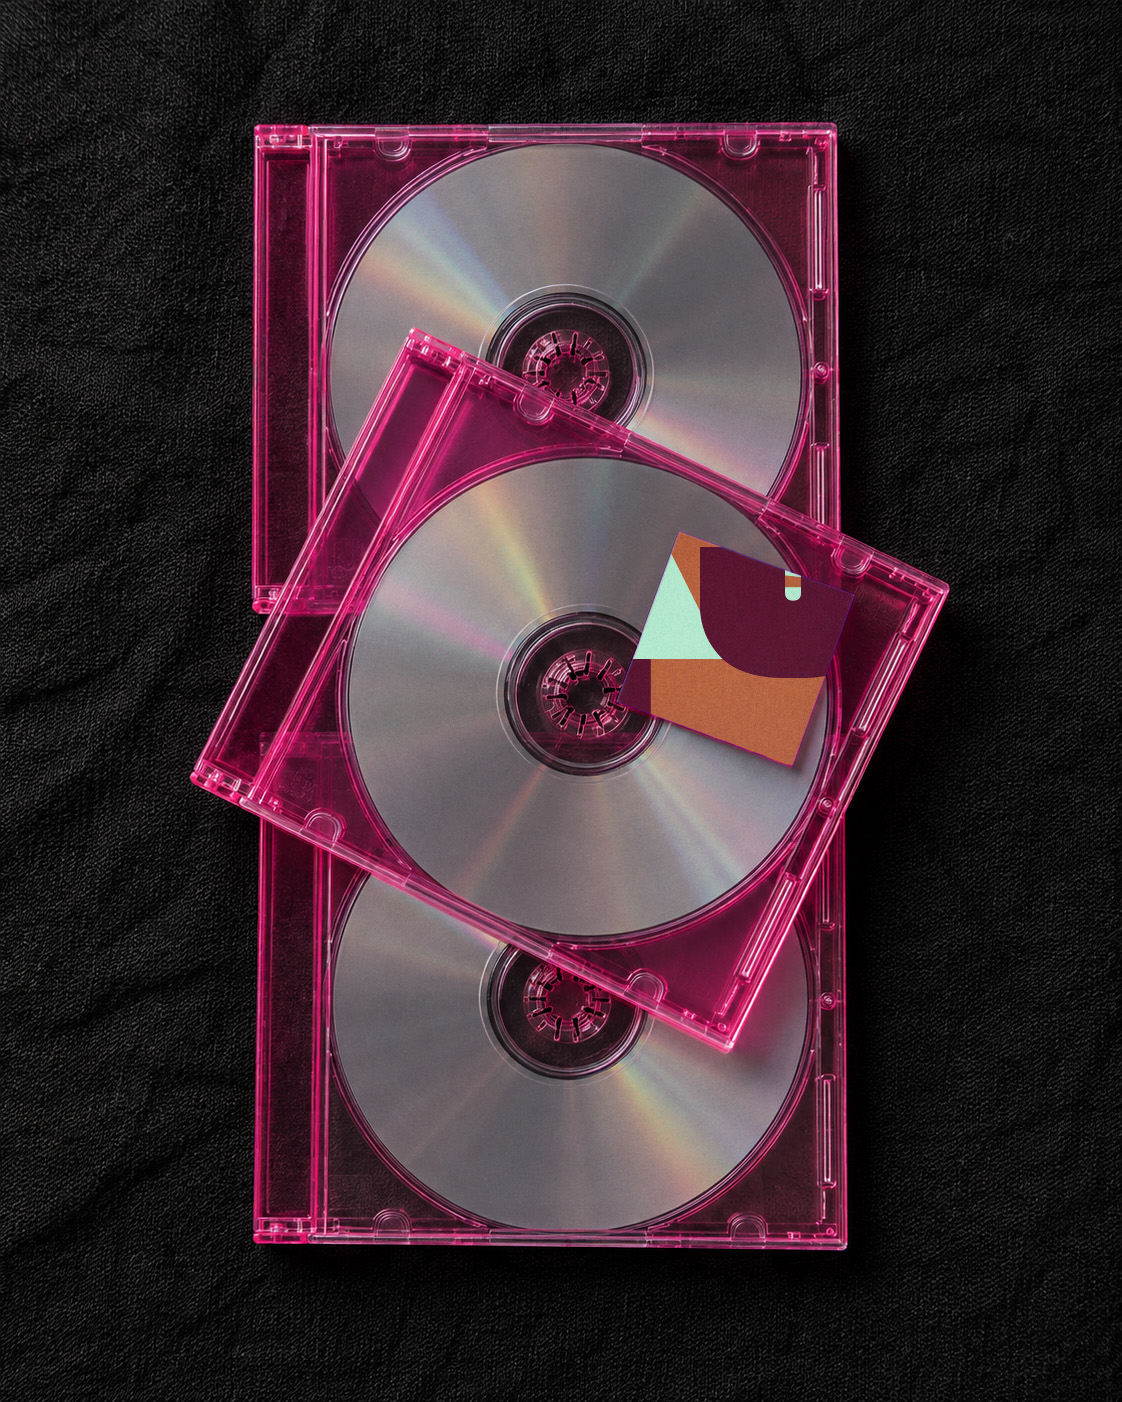
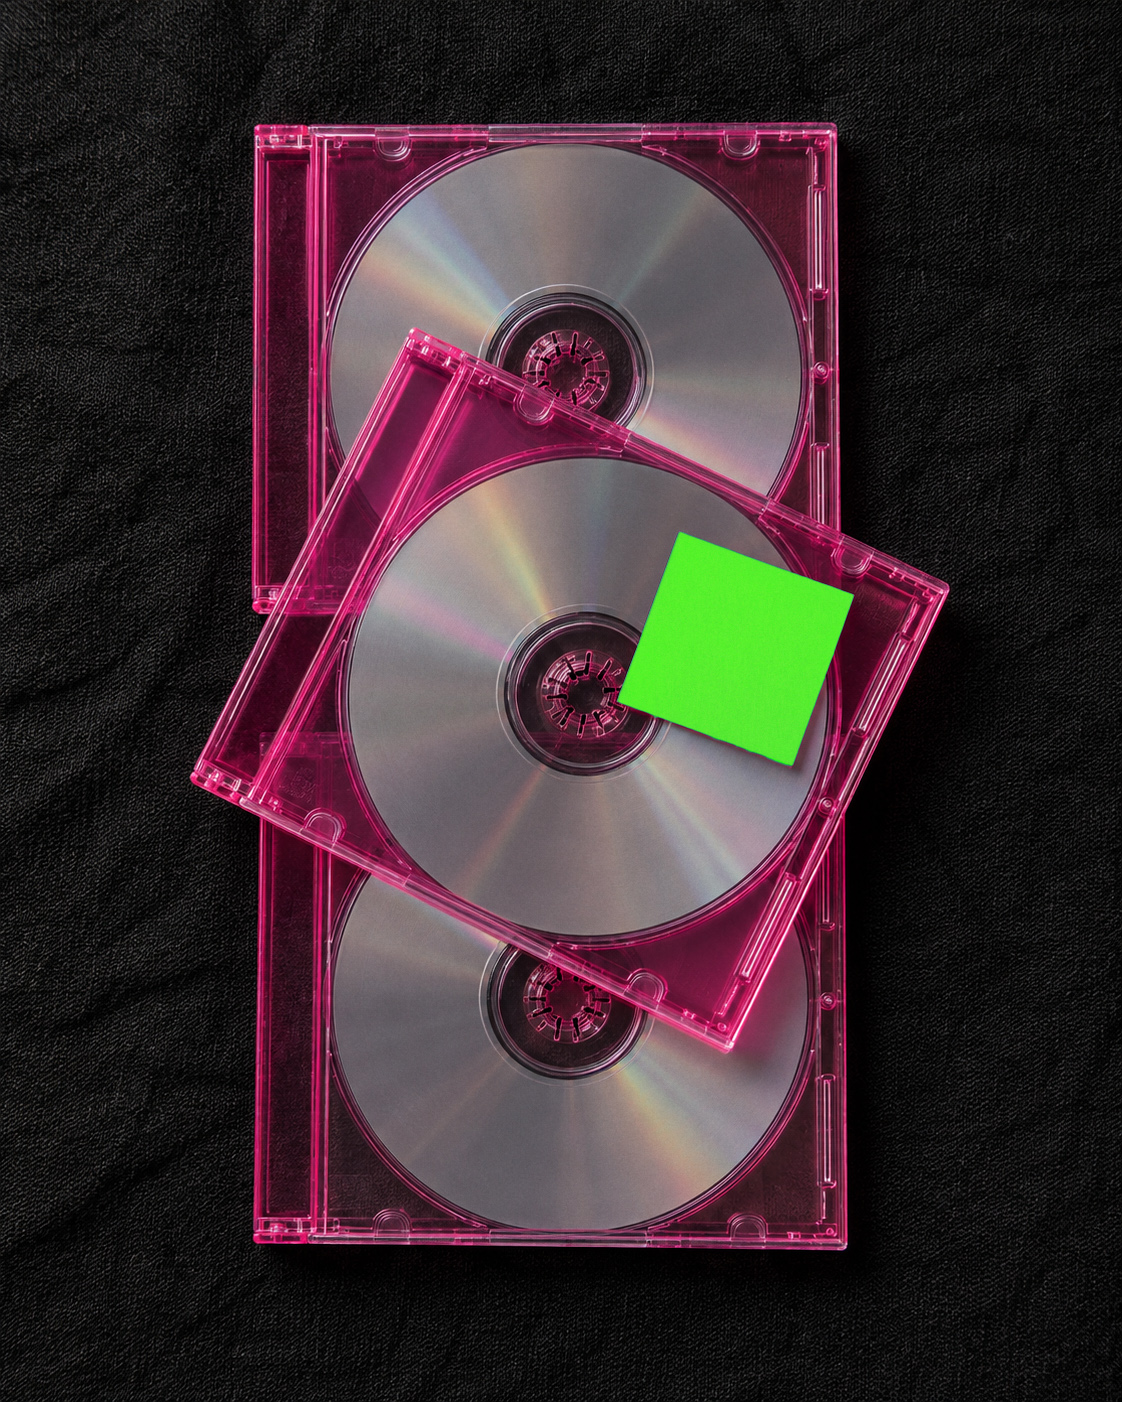
fix: simplify Awful Mockups visual case

Changed region(s): [[0.5303, 0.368, 0.7799, 0.5521]]

diff --git a/src/data/media/entries/awful-mockups.ts b/src/data/media/entries/awful-mockups.ts
@@ -8,55 +8,35 @@ export const awfulMockupsMediaEntries = [
     purpose: "work",
     projectIds: ["awful-mockups"],
     title: "Монитор",
-    description: "Вертикальная сцена с монитором для презентации интерфейса, лендинга или дашборда.",
-    alt: "Вертикальный мокап монитора в рабочей студийной сцене",
-    caption: {
-      title: "Монитор",
-      text: "Вертикальный кадр для интерфейса или лендинга: экран, объект и фон редактируются отдельно.",
-      meta: ["PSD", "Smart Object", "desktop"],
-    },
+    alt: "Мокап монитора с зелёным экраном",
+    caption: { title: "Монитор" },
   },
   {
     id: "awful-mockups-03-phone-fashion-use-01",
     assetId: "awful-mockups-03-phone-fashion",
     purpose: "work",
     projectIds: ["awful-mockups"],
-    title: "Постановочная сцена",
-    description: "Постановочная сцена с телефоном и человеком для обложек, первых экранов и визуальных кейсов.",
-    alt: "Мокап телефона в постановочной fashion-сцене с человеком",
-    caption: {
-      title: "Постановочная сцена",
-      text: "Телефон встроен в живой постановочный кадр, но экран остаётся заменяемым через Smart Object.",
-      meta: ["PSD", "retouch", "hero"],
-    },
+    title: "Телефон",
+    alt: "Мокап телефона с зелёным экраном в постановочной сцене",
+    caption: { title: "Телефон" },
   },
   {
     id: "awful-mockups-11-square-use-01",
     assetId: "awful-mockups-11-square",
     purpose: "supporting",
     projectIds: ["awful-mockups"],
-    title: "Квадратный формат",
-    description: "Квадратный кадр для соцсетей, обложек и компактной сетки портфолио.",
-    alt: "Квадратная презентационная сцена из набора Awful Mockups",
-    caption: {
-      title: "Квадратный формат",
-      text: "Формат для карточек, обложек и быстрых соцсетевых превью без пересборки исходника.",
-      meta: ["1:1", "cover", "social"],
-    },
+    title: "Квадратный мокап",
+    alt: "Квадратный мокап с зелёной заменяемой областью",
+    caption: { title: "Квадратный мокап" },
   },
   {
     id: "awful-mockups-16-landscape-use-01",
     assetId: "awful-mockups-16-landscape",
     purpose: "supporting",
     projectIds: ["awful-mockups"],
-    title: "Горизонтальная сцена",
-    description: "Горизонтальный кадр для широких секций, слайдов и превью кейса.",
-    alt: "Горизонтальный презентационный мокап из набора Awful Mockups",
-    caption: {
-      title: "Горизонтальная сцена",
-      text: "Широкая сцена для слайдов и секций, где нужен спокойный горизонтальный ритм.",
-      meta: ["16:10", "slides", "web"],
-    },
+    title: "Горизонтальный мокап",
+    alt: "Горизонтальный мокап с зелёной заменяемой областью",
+    caption: { title: "Горизонтальный мокап" },
   },
   {
     id: "awful-mockups-17-dual-phone-use-01",
@@ -64,13 +44,8 @@ export const awfulMockupsMediaEntries = [
     purpose: "supporting",
     projectIds: ["awful-mockups"],
     title: "Два телефона",
-    description: "Парная вертикальная сцена для сравнения экранов, состояний интерфейса или кадров до/после.",
-    alt: "Два телефона в вертикальной композиции для сравнения экранов",
-    caption: {
-      title: "Два телефона",
-      text: "Два экрана в одном кадре: удобно показывать сценарий, пару состояний или сравнение.",
-      meta: ["mobile", "pair", "comparison"],
-    },
+    alt: "Два телефона с зелёными экранами",
+    caption: { title: "Два телефона" },
   },
   {
     id: "awful-mockups-18-phone-use-01",
@@ -78,13 +53,8 @@ export const awfulMockupsMediaEntries = [
     purpose: "supporting",
     projectIds: ["awful-mockups"],
     title: "Телефон",
-    description: "Чистый телефонный кадр для экранов приложения и мобильных интерфейсных состояний.",
-    alt: "Чистый мокап телефона с редактируемым экраном",
-    caption: {
-      title: "Телефон",
-      text: "Базовая мобильная сцена без лишнего шума: подходит для UI-экранов и быстрых итераций.",
-      meta: ["mobile", "clean", "UI"],
-    },
+    alt: "Мокап телефона с зелёным экраном",
+    caption: { title: "Телефон" },
   },
   {
     id: "awful-mockups-28-phone-camera-use-01",
@@ -92,54 +62,34 @@ export const awfulMockupsMediaEntries = [
     purpose: "supporting",
     projectIds: ["awful-mockups"],
     title: "Телефон и камера",
-    description: "Предметная сцена для проектов о фото, видео, контенте и цифровых продуктах.",
-    alt: "Телефон рядом с компактной камерой в предметной сцене",
-    caption: {
-      title: "Телефон и камера",
-      text: "Предметный кадр добавляет контекст: интерфейс можно показать рядом с камерой, контентом или физическим объектом.",
-      meta: ["content", "creator", "object"],
-    },
+    alt: "Телефон с зелёным экраном рядом с камерой",
+    caption: { title: "Телефон и камера" },
   },
   {
     id: "awful-mockups-39-print-case-use-01",
     assetId: "awful-mockups-39-print-case",
     purpose: "supporting",
     projectIds: ["awful-mockups"],
-    title: "Печатный носитель",
-    description: "Печатный объект в прозрачном футляре для презентации айдентики, постеров и упаковки.",
-    alt: "Печатный материал в прозрачном футляре для бренд-презентации",
-    caption: {
-      title: "Печатный носитель",
-      text: "Набор не ограничивается экранами: печатный кадр закрывает постеры, обложки и упаковочные задачи.",
-      meta: ["print", "brand", "packaging"],
-    },
+    title: "Печатный мокап",
+    alt: "Печатный мокап с зелёной заменяемой областью",
+    caption: { title: "Печатный мокап" },
   },
   {
     id: "awful-mockups-photoshop-layers-full-use-01",
     assetId: "awful-mockups-photoshop-layers-full",
     purpose: "supporting",
     projectIds: ["awful-mockups"],
-    title: "Структура PSD",
-    description: "Открытый файл Photoshop с общей структурой мокапа и группами слоёв.",
-    alt: "Мокап открыт в Photoshop с раскрытой структурой слоёв",
-    caption: {
-      title: "Структура PSD",
-      text: "Общий вид файла: исходник, объект, экран, фон и постобработка разделены по группам.",
-      meta: ["Photoshop", "layers", "source"],
-    },
+    title: "Слои в Photoshop",
+    alt: "Исходный мокап открыт в Photoshop с раскрытой панелью слоёв",
+    caption: { title: "Слои в Photoshop" },
   },
   {
     id: "awful-mockups-photoshop-layers-detail-use-01",
     assetId: "awful-mockups-photoshop-layers-detail",
     purpose: "supporting",
     projectIds: ["awful-mockups"],
-    title: "Слои и маски",
-    description: "Фрагмент панели слоёв, где видны рабочие группы, маски и редактируемые элементы.",
-    alt: "Фрагмент интерфейса Photoshop со слоями, масками и группами мокапа",
-    caption: {
-      title: "Слои и маски",
-      text: "Крупнее видна рабочая логика PSD: маски, корректирующие слои и редактируемый экран не смешаны в один слой.",
-      meta: ["Smart Object", "mask", "retouch"],
-    },
+    title: "Фрагмент слоёв",
+    alt: "Фрагмент панели слоёв Photoshop",
+    caption: { title: "Фрагмент слоёв" },
   },
 ] as const satisfies readonly MediaEntryData<MediaAssetId>[];

diff --git a/src/data/content/awful-mockups.ts b/src/data/content/awful-mockups.ts
@@ -1,18 +1,15 @@
-import type { AnimatedCanvasGalleryData } from "../../types/animated-canvas-gallery.ts";
-import type { MediaFigureData, ProjectIntroData, SectionIntroData } from "../../types/content.ts";
+import type { ProjectIntroData, SectionIntroData } from "../../types/content.ts";
 import type { MediaGroupData } from "../../types/media-group.ts";
-import type { MockupDeckData } from "../../types/mockup-deck.ts";
 import type { MediaEntryId } from "../media/index.ts";
 import type { LogoUsageId } from "../logos/index.ts";
 
 export const awfulMockupsIntro = {
   head: { type: "text", text: "Awful Mockups" },
   title: { type: "text", text: "Awful Mockups" },
-  role: "PSD-мокапы, ретушь и презентационные сцены",
+  role: "PSD-мокапы",
   period: "2026",
-  summary: "Редактируемая библиотека мокапов устройств и печатных носителей для быстрой презентации интерфейсов, графики и кейсов.",
-  lead:
-    "Экран, объект, фон, маски, цвет и постобработка разделены по слоям. Поэтому сцену можно адаптировать под новый проект без повторной съёмки, рендера или сборки мокапа с нуля.",
+  summary: "Набор редактируемых мокапов для интерфейсов и графики.",
+  lead: "Экран, фон и постобработка разделены по слоям.",
   linksLabel: "Исходники",
   links: [
     {
@@ -24,82 +21,37 @@ export const awfulMockupsIntro = {
   ],
 } as const satisfies ProjectIntroData<LogoUsageId>;
 
-export const awfulMockupsMedia = [
-  { entryId: "awful-mockups-03-phone-fashion-use-01", captionView: "summary" },
-  { entryId: "awful-mockups-02-monitor-use-01", captionView: "summary" },
-  { entryId: "awful-mockups-17-dual-phone-use-01", captionView: "summary" },
-  { entryId: "awful-mockups-28-phone-camera-use-01", captionView: "summary" },
-  { entryId: "awful-mockups-16-landscape-use-01", captionView: "summary" },
-  { entryId: "awful-mockups-11-square-use-01", captionView: "summary" },
-  { entryId: "awful-mockups-18-phone-use-01", captionView: "summary" },
-  { entryId: "awful-mockups-39-print-case-use-01", captionView: "summary" },
-] as const satisfies readonly MediaFigureData<MediaEntryId>[];
-
 export const awfulMockupsPreviewGroup = {
   layout: "grid",
-  captionView: "summary",
+  captionView: "lightbox-only",
   columns: 2,
   mobileColumns: 1,
   items: [
-    { entryId: "awful-mockups-03-phone-fashion-use-01", role: "wide", captionFields: ["index", "title"] },
-    { entryId: "awful-mockups-02-monitor-use-01", captionFields: ["index", "title"] },
-    { entryId: "awful-mockups-17-dual-phone-use-01", captionFields: ["index", "title"] },
-    { entryId: "awful-mockups-28-phone-camera-use-01", captionFields: ["index", "title"] },
-    { entryId: "awful-mockups-16-landscape-use-01", role: "wide", captionFields: ["index", "title"] },
-    { entryId: "awful-mockups-11-square-use-01", captionFields: ["index", "title"] },
-    { entryId: "awful-mockups-18-phone-use-01", captionFields: ["index", "title"] },
-    { entryId: "awful-mockups-39-print-case-use-01", captionFields: ["index", "title"] },
+    { entryId: "awful-mockups-03-phone-fashion-use-01", role: "wide" },
+    { entryId: "awful-mockups-02-monitor-use-01" },
+    { entryId: "awful-mockups-17-dual-phone-use-01" },
+    { entryId: "awful-mockups-28-phone-camera-use-01" },
+    { entryId: "awful-mockups-16-landscape-use-01", role: "wide" },
+    { entryId: "awful-mockups-11-square-use-01" },
+    { entryId: "awful-mockups-18-phone-use-01" },
+    { entryId: "awful-mockups-39-print-case-use-01" },
   ],
 } as const satisfies MediaGroupData<MediaEntryId>;
 
-export const awfulMockupsCanvasGallery = {
-  profile: "moves",
-  variant: "showcase-diagonal",
-  id: "awful-mockups-canvas",
-  className: "awful-mockups-showcase",
-  items: awfulMockupsMedia.map(({ entryId }) => ({ entryId, title: "" })),
-} as const satisfies AnimatedCanvasGalleryData<MediaEntryId>;
-
-export const awfulMockupsMockupDeck = {
-  variant: "standard",
-  device: "desktop",
-  captionView: "lightbox-only",
-  controls: false,
-  captions: false,
-  slides: [
-    {
-      kind: "canvas-gallery",
-      className: "awful-mockups-slider-canvas-slide",
-      captionView: "lightbox-only",
-      caption: { title: "Awful Mockups" },
-      gallery: awfulMockupsCanvasGallery,
-    },
-  ],
-} as const satisfies MockupDeckData<MediaEntryId>;
-
 export const awfulMockupsShowcaseIntro = {
-  title: "Сцены для разных форматов",
-  paragraphs: [
-    "В наборе есть постановочные кадры, мониторы, одиночные и парные телефоны, широкие композиции и печатные носители. Сцены рассчитаны на разные типы проектов, а не на один шаблон.",
-    "Каждый кадр можно использовать как готовую презентационную сцену или быстро адаптировать под конкретный интерфейс, кампанию или кейс.",
-  ],
+  title: "Мокапы",
+  paragraphs: ["Зелёный экран — заменяемая область."],
 } as const satisfies SectionIntroData;
 
 export const awfulMockupsStructureIntro = {
-  title: "Редактируемая PSD-структура",
-  paragraphs: [
-    "Каждый мокап собран как рабочий PSD, а не как плоская картинка: экран меняется через Smart Object, фон и объект отделены масками, цвет и фактура остаются в постобработке.",
-    "Скриншоты Photoshop показывают реальную структуру слоёв: исходник, объект, экран, фон, маски и постобработка разнесены по рабочим группам.",
-  ],
+  title: "PSD",
+  paragraphs: ["Один из исходников с раскрытыми слоями в Photoshop."],
 } as const satisfies SectionIntroData;
 
 export const awfulMockupsPhotoshopGroup = {
   layout: "grid",
-  captionView: "summary",
-  columns: 2,
+  captionView: "lightbox-only",
+  columns: 1,
   mobileColumns: 1,
-  items: [
-    { entryId: "awful-mockups-photoshop-layers-full-use-01", loading: "lazy", captionFields: ["index", "title"] },
-    { entryId: "awful-mockups-photoshop-layers-detail-use-01", loading: "lazy", captionFields: ["index", "title"] },
-  ],
+  items: [{ entryId: "awful-mockups-photoshop-layers-full-use-01", loading: "lazy" }],
 } as const satisfies MediaGroupData<MediaEntryId>;

diff --git a/src/content/pages/projects/awful-mockups.ts b/src/content/pages/projects/awful-mockups.ts
@@ -1,6 +1,5 @@
 import {
   awfulMockupsIntro,
-  awfulMockupsMockupDeck,
   awfulMockupsPhotoshopGroup,
   awfulMockupsPreviewGroup,
   awfulMockupsShowcaseIntro,
@@ -16,10 +15,7 @@ export const awfulMockupsPageContent = {
       type: "content",
       id: "awful-mockups-showcase",
       intro: awfulMockupsShowcaseIntro,
-      blocks: [
-        { type: "mockup-deck", data: awfulMockupsMockupDeck },
-        { type: "media-group", data: awfulMockupsPreviewGroup },
-      ],
+      blocks: [{ type: "media-group", data: awfulMockupsPreviewGroup }],
     },
     {
       type: "content",
